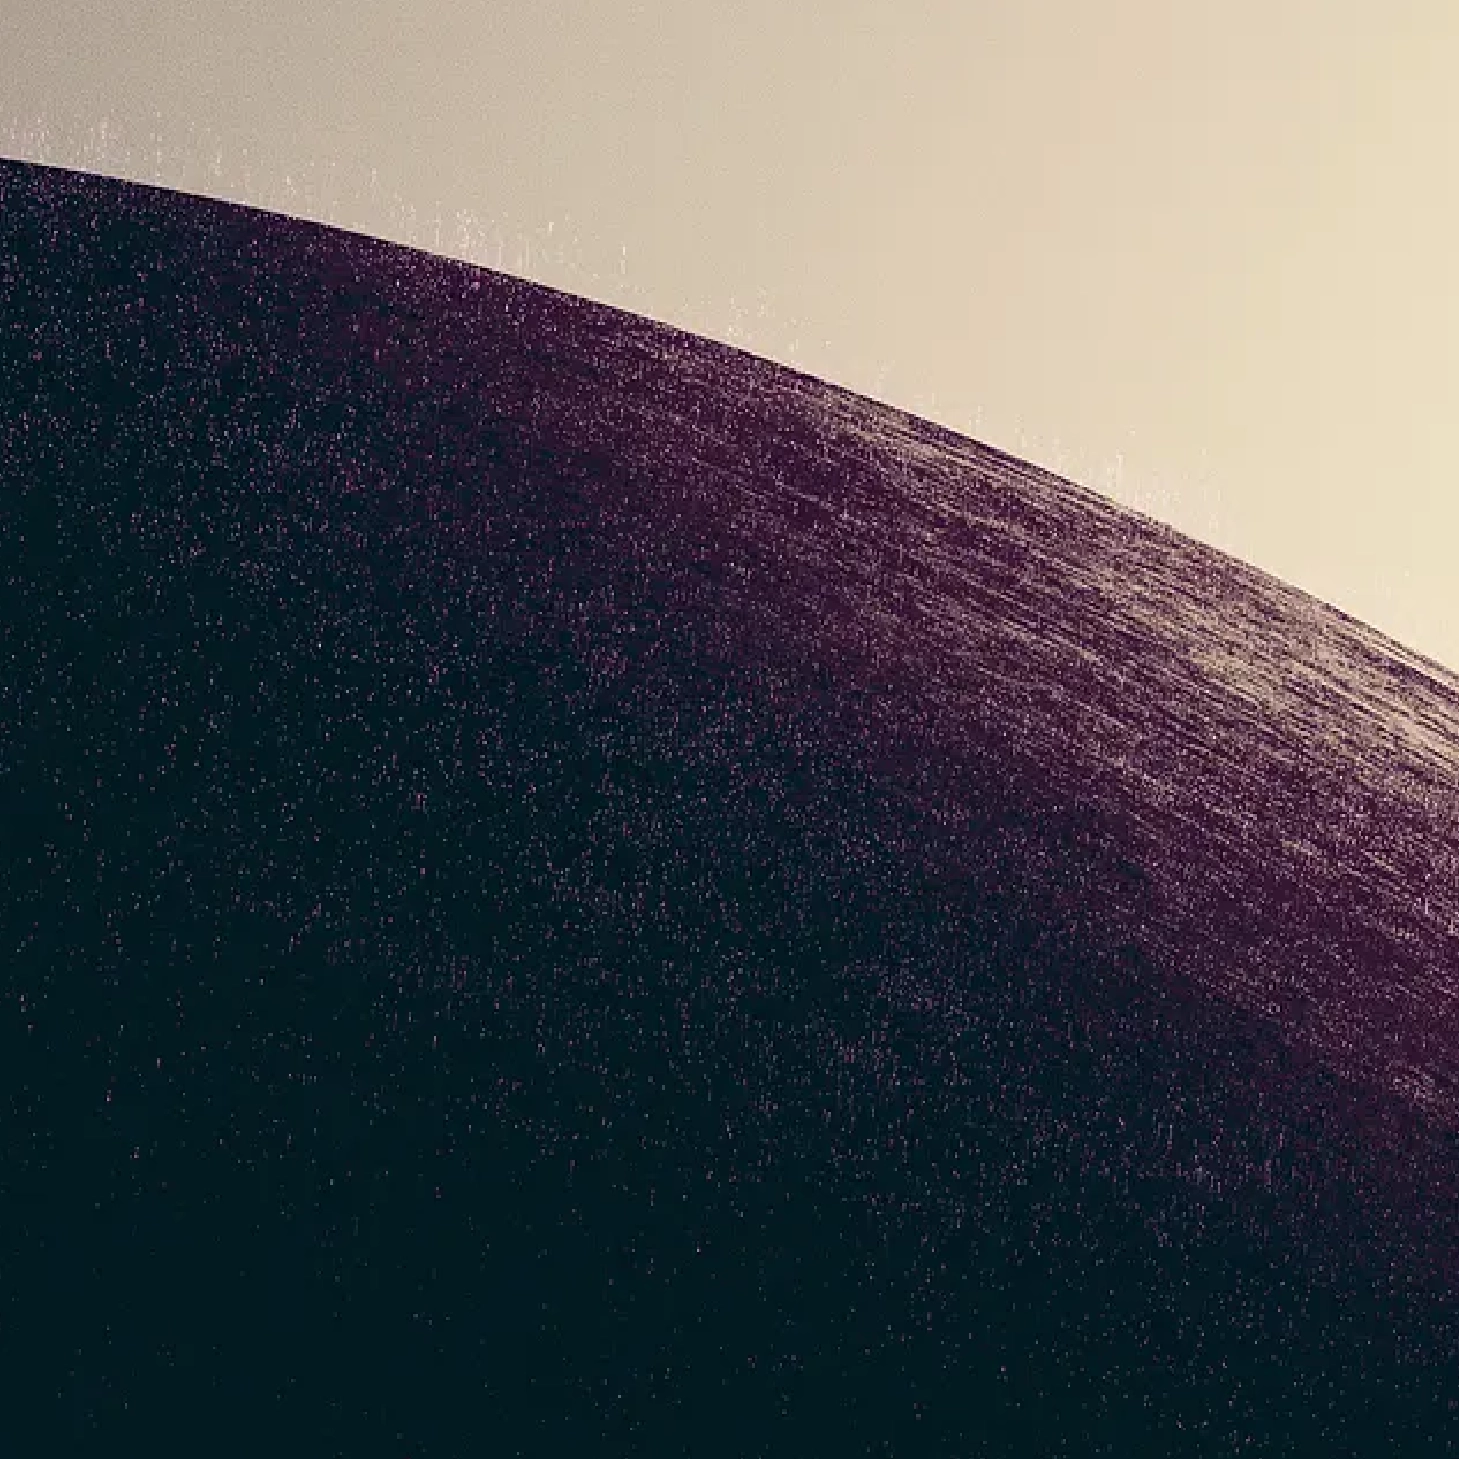
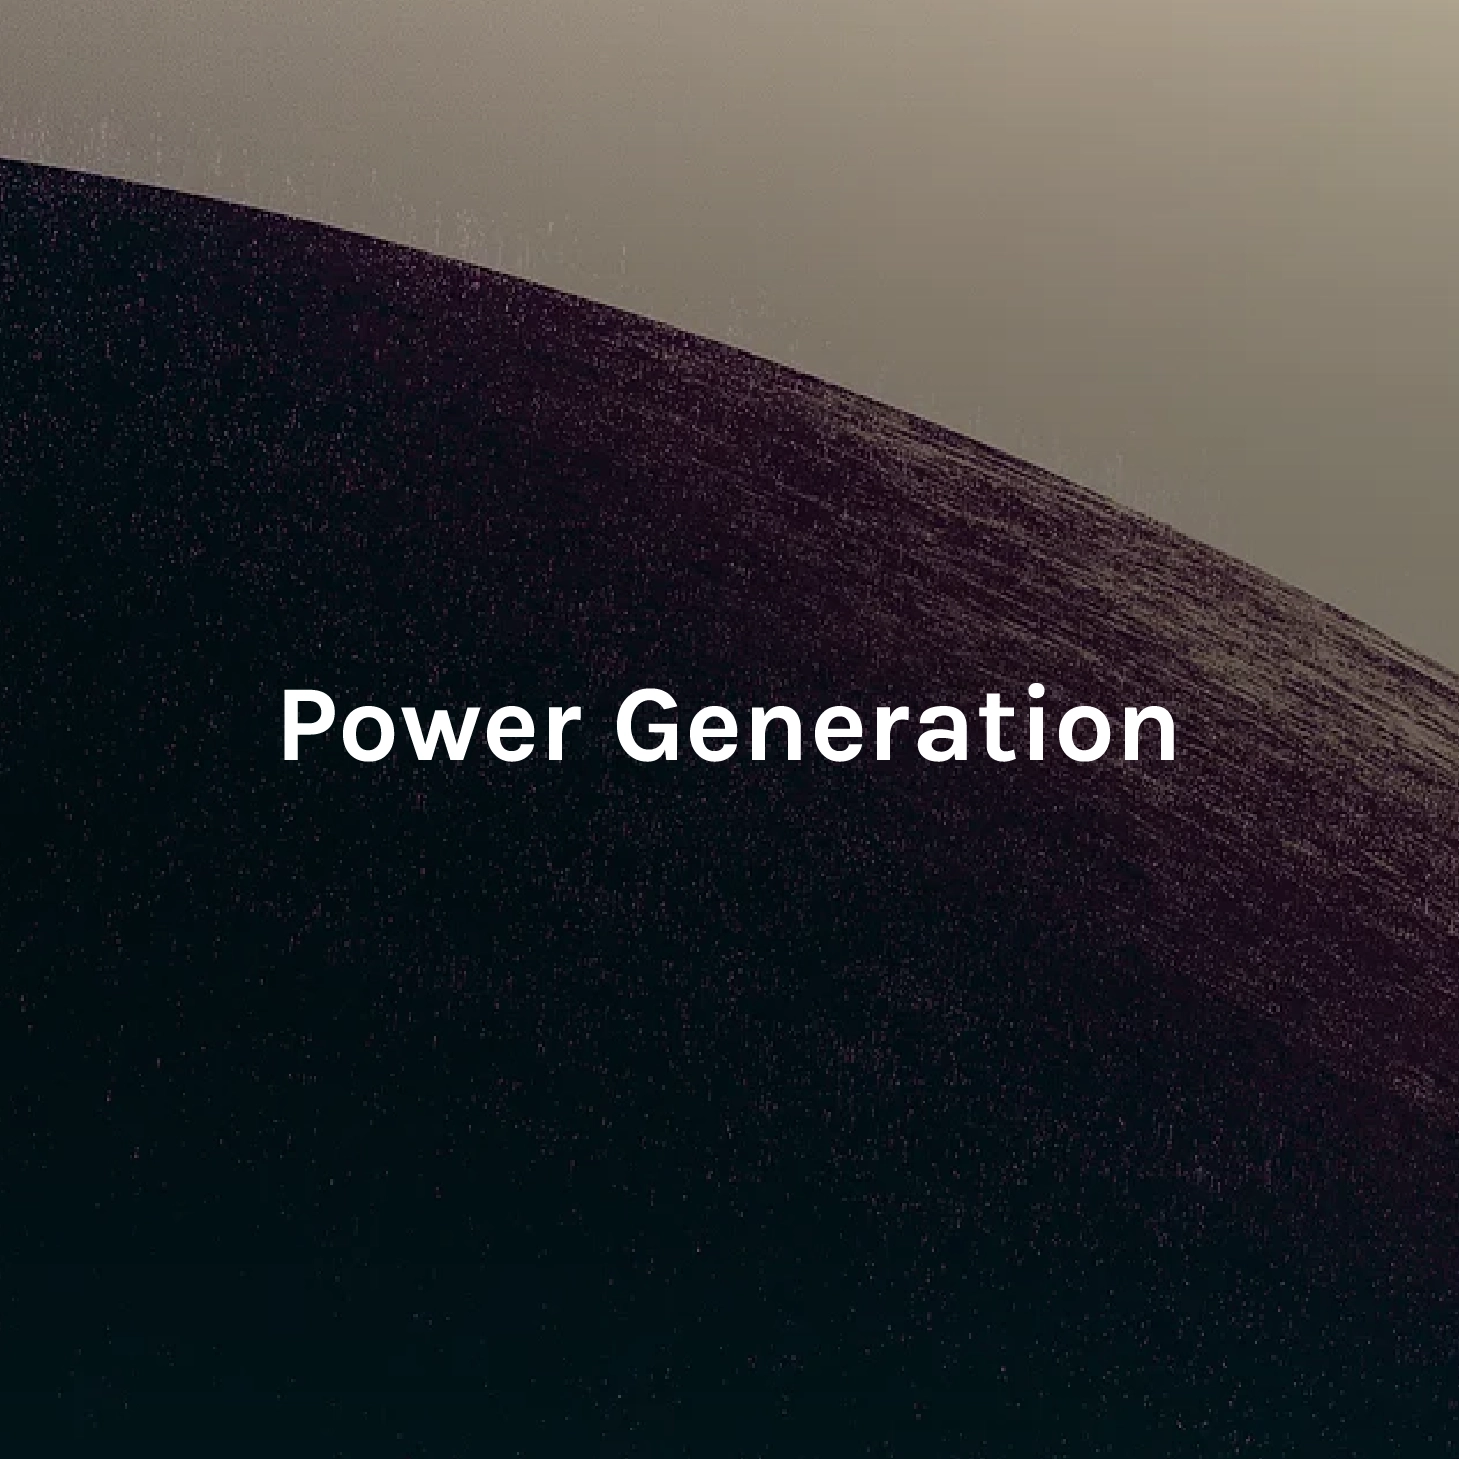
x

diff --git a/index.html b/index.html
@@ -325,7 +325,7 @@
 							<img src="/img/ideas/ft-intelligence-nuclear-fission.webp">
 							<figcaption class="team-caption white">
 								<div class="team-meta">
-									<a href="ideas/intelligence-nuclear-fission" target="_blank">
+									<a href="ideas/intelligence-nuclear-fission">
 										<strong class="team-name">Energy Eats Intelligence: Nuclear Fission</strong>
 										<span class="team-spec">Thought Paper</span>
 									</a>
@@ -335,11 +335,11 @@
 					</div>
 					<div class="col-team col-lg-3 col-md-3">
 						<figure class="team-profile team-pml">
-							<img src="/img/ideas/ft-first-floor.webp">
+							<img src="/img/ideas/ft-intelligence-power-generation.webp">
 							<figcaption class="team-caption white">
 								<div class="team-meta">
-									<a href="ideas/first-floor">
-										<strong class="team-name">First to the Floor</strong>
+									<a href="ideas/intelligence-power-generation">
+										<strong class="team-name">Power Generation</strong>
 										<span class="team-spec">Thought Paper</span>
 									</a>
 								</div>
